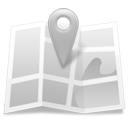
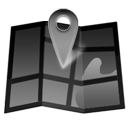
WWW, settings and info buttons changed to custom buttons.

diff --git a/Client/mainwindow.cpp b/Client/mainwindow.cpp
@@ -49,14 +49,6 @@ MainWindow::MainWindow(QWidget *parent) :
 
     this->setUsernameToMainPanel();
 
-    //Button settings
-    ui->pushButtonSettings->setAutoFillBackground(true);
-    ui->pushButtonSettings->setStyleSheet("background-color: rgb(0, 0, 0); color: rgb(255, 255, 255)");
-    ui->pushButtonWWW->setAutoFillBackground(true);
-    ui->pushButtonWWW->setStyleSheet("background-color: rgb(0, 0, 0); color: rgb(255, 255, 255)");
-    ui->pushButtonCredits->setAutoFillBackground(true);
-    ui->pushButtonCredits->setStyleSheet("background-color: rgb(0, 0, 0); color: rgb(255, 255, 255)");
-
     //Create icon for acceleration start button
     QIcon* icon = new QIcon();
     icon->addFile(QString(":/new/prefix1/Graphics/Speedometer.png"), QSize(125,125), QIcon::Normal, QIcon::Off);
@@ -101,6 +93,49 @@ MainWindow::MainWindow(QWidget *parent) :
     customButtonResults->setGeometry(buttons_x,buttons_y,130,130);
     connect(customButtonResults, SIGNAL(OpenDialog()), this, SLOT(OpenResultDialog()));
     customButtonResults->show();
+    //Create icon for settings dialog button
+    icon = new QIcon();
+    icon->addFile(QString(":/new/prefix1/Graphics/settings.png"), QSize(125,125), QIcon::Normal, QIcon::Off);
+    icon->addFile(QString(":/new/prefix1/Graphics/settings_selected.png"), QSize(125,125), QIcon::Normal, QIcon::On);
+
+    //Settings dialog button
+
+    customButtonSettings = new CustomButton(this,icon);
+    delete icon;
+
+    buttons_x += 140;
+    customButtonSettings->setGeometry(buttons_x,buttons_y,130,130);
+    connect(customButtonSettings, SIGNAL(OpenDialog()), this, SLOT(OpenSettingsDialog()));
+    customButtonSettings->show();
+
+    //Create icon for www page button
+    icon = new QIcon();
+    icon->addFile(QString(":/new/prefix1/Graphics/applications_internet.png"), QSize(125,125), QIcon::Normal, QIcon::Off);
+    icon->addFile(QString(":/new/prefix1/Graphics/applications_internet_selected.png"), QSize(125,125), QIcon::Normal, QIcon::On);
+
+    //WWW page button
+
+    customButtonWWW = new CustomButton(this,icon);
+    delete icon;
+
+    buttons_x += 140;
+    customButtonWWW->setGeometry(buttons_x,buttons_y,130,130);
+    connect(customButtonWWW, SIGNAL(OpenDialog()), this, SLOT(OpenWWWPage()));
+    customButtonWWW->show();
+
+    //Create icon for help dialog button
+    icon = new QIcon();
+    icon->addFile(QString(":/new/prefix1/Graphics/info.png"), QSize(105,105), QIcon::Normal, QIcon::Off);
+    icon->addFile(QString(":/new/prefix1/Graphics/info_selected.png"), QSize(105,105), QIcon::Normal, QIcon::On);
+
+    //Help dialog button
+
+    customButtonHelp = new CustomButton(this,icon);
+    delete icon;
+
+    customButtonHelp->setGeometry(670,10,105,105);
+    connect(customButtonHelp, SIGNAL(OpenDialog()), this, SLOT(OpenHelpDialog()));
+    customButtonHelp->show();
 }
 
 /**
@@ -137,8 +172,14 @@ MainWindow::~MainWindow()
         delete customButtonRoute;
     if(customButtonResults)
         delete customButtonResults;
-
+    if(customButtonSettings)
+        delete customButtonSettings;
+    if(customButtonWWW)
+        delete customButtonWWW;
+    if(customButtonHelp)
+        delete customButtonHelp;
 }
+
 
 /**
   *
@@ -153,34 +194,6 @@ void MainWindow::changeEvent(QEvent *e)
     default:
         break;
     }
-}
-
-/**
-  * This slot function opens browser to project www page.
-  */
-void MainWindow::on_pushButtonWWW_clicked()
-{
-    QDesktopServices::openUrl(QUrl("http://garage.maemo.org/projects/speedfreak/"));
-}
-
-/**
-  * This slot function opens the credits dialog
-  */
-void MainWindow::on_pushButtonCredits_clicked()
-{
-    if(!helpDialog)
-        helpDialog = new HelpDialog;
-
-    connect(helpDialog, SIGNAL(rejected()), this, SLOT(killDialog()));
-    helpDialog->show();
-}
-
-/**
-  * This slot function opens the settings dialog
-  */
-void MainWindow::on_pushButtonSettings_clicked()
-{
-    settingsDialog->show();
 }
 
 /**
@@ -379,6 +392,31 @@ void MainWindow::OpenResultDialog()
     connect(topResultDialog, SIGNAL(refreshTopList(int)), this, SLOT(clientRequestTopList(int)));
     connect(topResultDialog, SIGNAL(rejected()), this, SLOT(killDialog()));
     topResultDialog->show();
+}
+/**
+  * This slot function opens the settings dialog
+  */
+void MainWindow::OpenSettingsDialog()
+{
+    settingsDialog->show();
+}
+/**
+  * This slot function opens browser to project www page.
+  */
+void MainWindow::OpenWWWPage()
+{
+    QDesktopServices::openUrl(QUrl("http://garage.maemo.org/projects/speedfreak/"));
+}
+/**
+  * This slot function opens the main help dialog
+  */
+void MainWindow::OpenHelpDialog()
+{
+    if(!helpDialog)
+        helpDialog = new HelpDialog;
+
+    connect(helpDialog, SIGNAL(rejected()), this, SLOT(killDialog()));
+    helpDialog->show();
 }
 
 /**

diff --git a/Client/mainwindow.h b/Client/mainwindow.h
@@ -59,11 +59,11 @@ private:
     CustomButton* customButtonAccelerate;
     CustomButton* customButtonRoute;
     CustomButton* customButtonResults;
+    CustomButton* customButtonSettings;
+    CustomButton* customButtonWWW;
+    CustomButton* customButtonHelp;
 
 private slots:
-    void on_pushButtonSettings_clicked();
-    void on_pushButtonCredits_clicked();
-    void on_pushButtonWWW_clicked();
     void clientRequestCategoryList();
     void clientRequestTopList(int index);
     void clientSendRoute();
@@ -78,7 +78,9 @@ private slots:
     void OpenRouteDialog();
     void OpenResultDialog();
     void saveProfile();
-
+    void OpenWWWPage();
+    void OpenHelpDialog();
+    void OpenSettingsDialog();
 };
 
 #endif // MAINWINDOW_H

diff --git a/Client/custombutton.cpp b/Client/custombutton.cpp
@@ -17,10 +17,17 @@
 CustomButton::CustomButton(QWidget *parent, QIcon *icon) : QWidget(parent)
 {
     bPressed = false;
+    //Get size of the icon
+    QList<QSize> list = icon->availableSizes(QIcon::Normal,QIcon::On);
+
+    //If icon is empty, do not create pixmaps and leave
+    if(list.isEmpty())
+        return;
+    QSize size = list.first();
     if( icon )
     {
-        pict1 = new QPixmap(icon->pixmap(125,125,QIcon::Normal,QIcon::On));
-        pict2 = new QPixmap(icon->pixmap(125,125,QIcon::Normal,QIcon::Off));
+        pict1 = new QPixmap(icon->pixmap(size.width(),size.height(),QIcon::Normal,QIcon::On));
+        pict2 = new QPixmap(icon->pixmap(size.width(),size.height(),QIcon::Normal,QIcon::Off));
     }
 }
 /**
